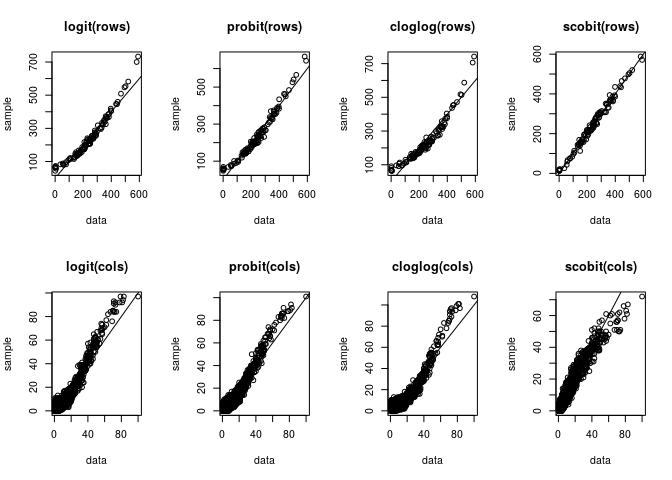
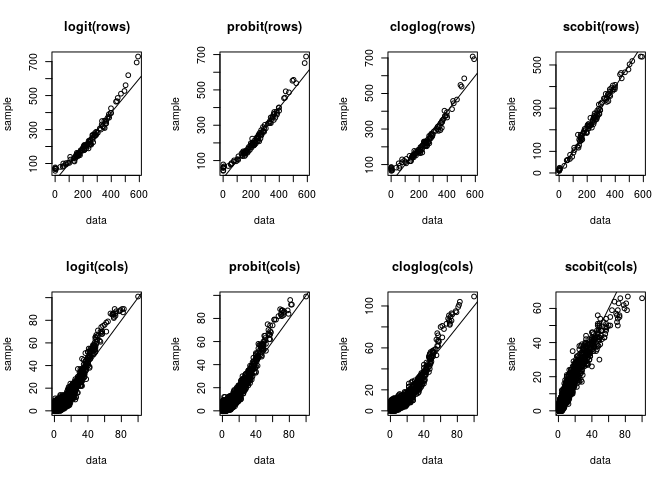
clean up old functions

diff --git a/README.md b/README.md
@@ -1,9 +1,11 @@
 
 <!-- README.md is generated from README.Rmd. Please edit that file -->
 
-[![lifecycle](https://img.shields.io/badge/lifecycle-experimental-orange.svg)](https://www.tidyverse.org/lifecycle/#experimental)
-
 # levelnet
+
+[![lifecycle](https://img.shields.io/badge/lifecycle-experimental-orange.svg)](https://www.tidyverse.org/lifecycle/#experimental)
+[![Travis build
+status](https://travis-ci.org/schochastics/levelnet.svg?branch=master)](https://travis-ci.org/schochastics/levelnet)
 
 levelnet is, so far, an early-stage R package that can be used to
 analyse two-mode networks and specifically their one-mode projection.
@@ -23,8 +25,8 @@ ignored for now.
 You can install the developers version of levelnet with:
 
 ``` r
-# install.packages("remotes")
-remotes::install_github("schochastics/levelnet")
+# install.packages("devtools")
+devtools::install_github("schochastics/levelnet")
 ```
 
 ## Example of `sdsm`
@@ -63,17 +65,17 @@ vector.~~
 explicitly which facilitates the optimization**.
 
 ``` r
-params <- list(b0=1e-5,b1=1e-5,b2=1e-5,b3=1e-5,a=0.8)
-sdsm_diagnostic(g,verbose=FALSE,params = params)
+params <- list(b0 = 1e-5,b1 = 1e-5,b2 = 1e-5,b3 = 1e-5,a = 0.8)
+sdsm_diagnostic(g,verbose = FALSE,params = params)
 ```
 
 <img src="man/figures/README-diagnostics-1.png" width="100%" />
 
     #>      name rmse_row rmse_col   time
-    #> 1   logit 32.05265 3.525473  1.277
-    #> 2  probit 28.52139 3.240233  1.417
-    #> 3 cloglog 39.69981 4.237476  4.606
-    #> 4  scobit 14.95347 2.700943 33.174
+    #> 1   logit 32.49987 3.539514  1.977
+    #> 2  probit 28.82683 3.265757  1.721
+    #> 3 cloglog 38.65148 4.156065  5.482
+    #> 4  scobit 14.45308 2.731727 35.594
 
 Note that there is no significant speed up for the scobit model to the
 previous version (runtime was ~50 sec). The gradient function is rather
@@ -85,8 +87,8 @@ As was noted in the paper, the scobit model produces the best fit of the
 data.
 
 ``` r
-params <- list(b0=1e-5,b1=1e-5,b2=1e-5,b3=1e-5,a=0.8)
-l <- sdsm(g,proj = "true",model="scobit",params = params)
+params <- list(b0 = 1e-5,b1 = 1e-5,b2 = 1e-5,b3 = 1e-5,a = 0.8)
+l <- sdsm(g,proj = "true",model = "scobit",params = params)
 ```
 
 <img src="man/figures/README-graph.png" width="80%" style="display: block; margin: auto;"/>
